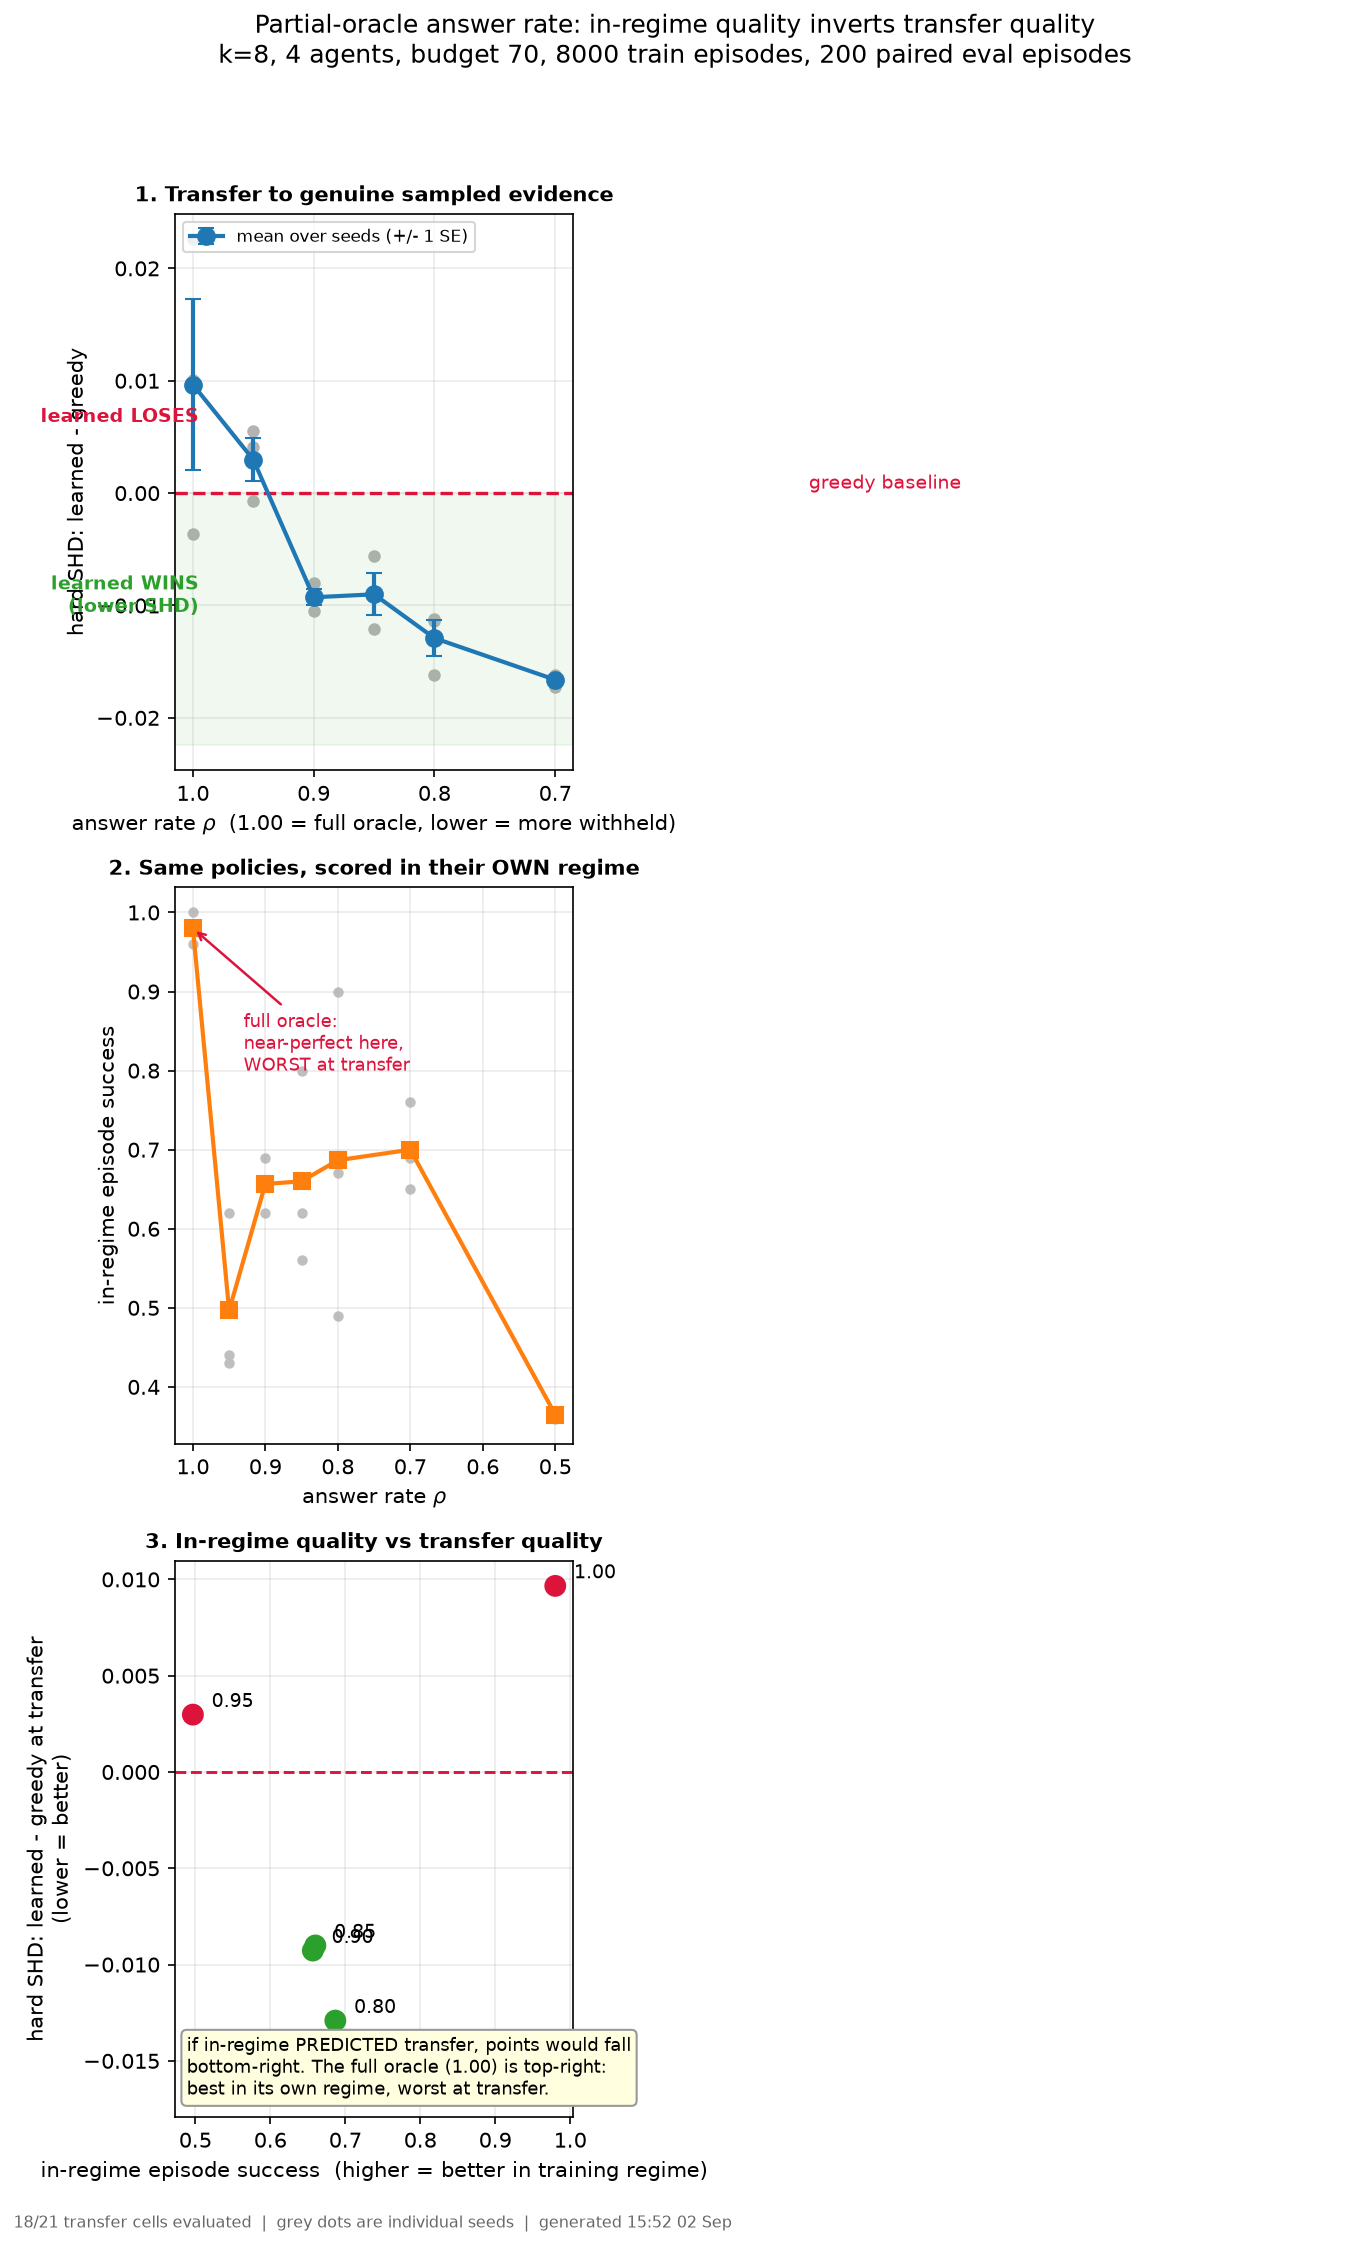
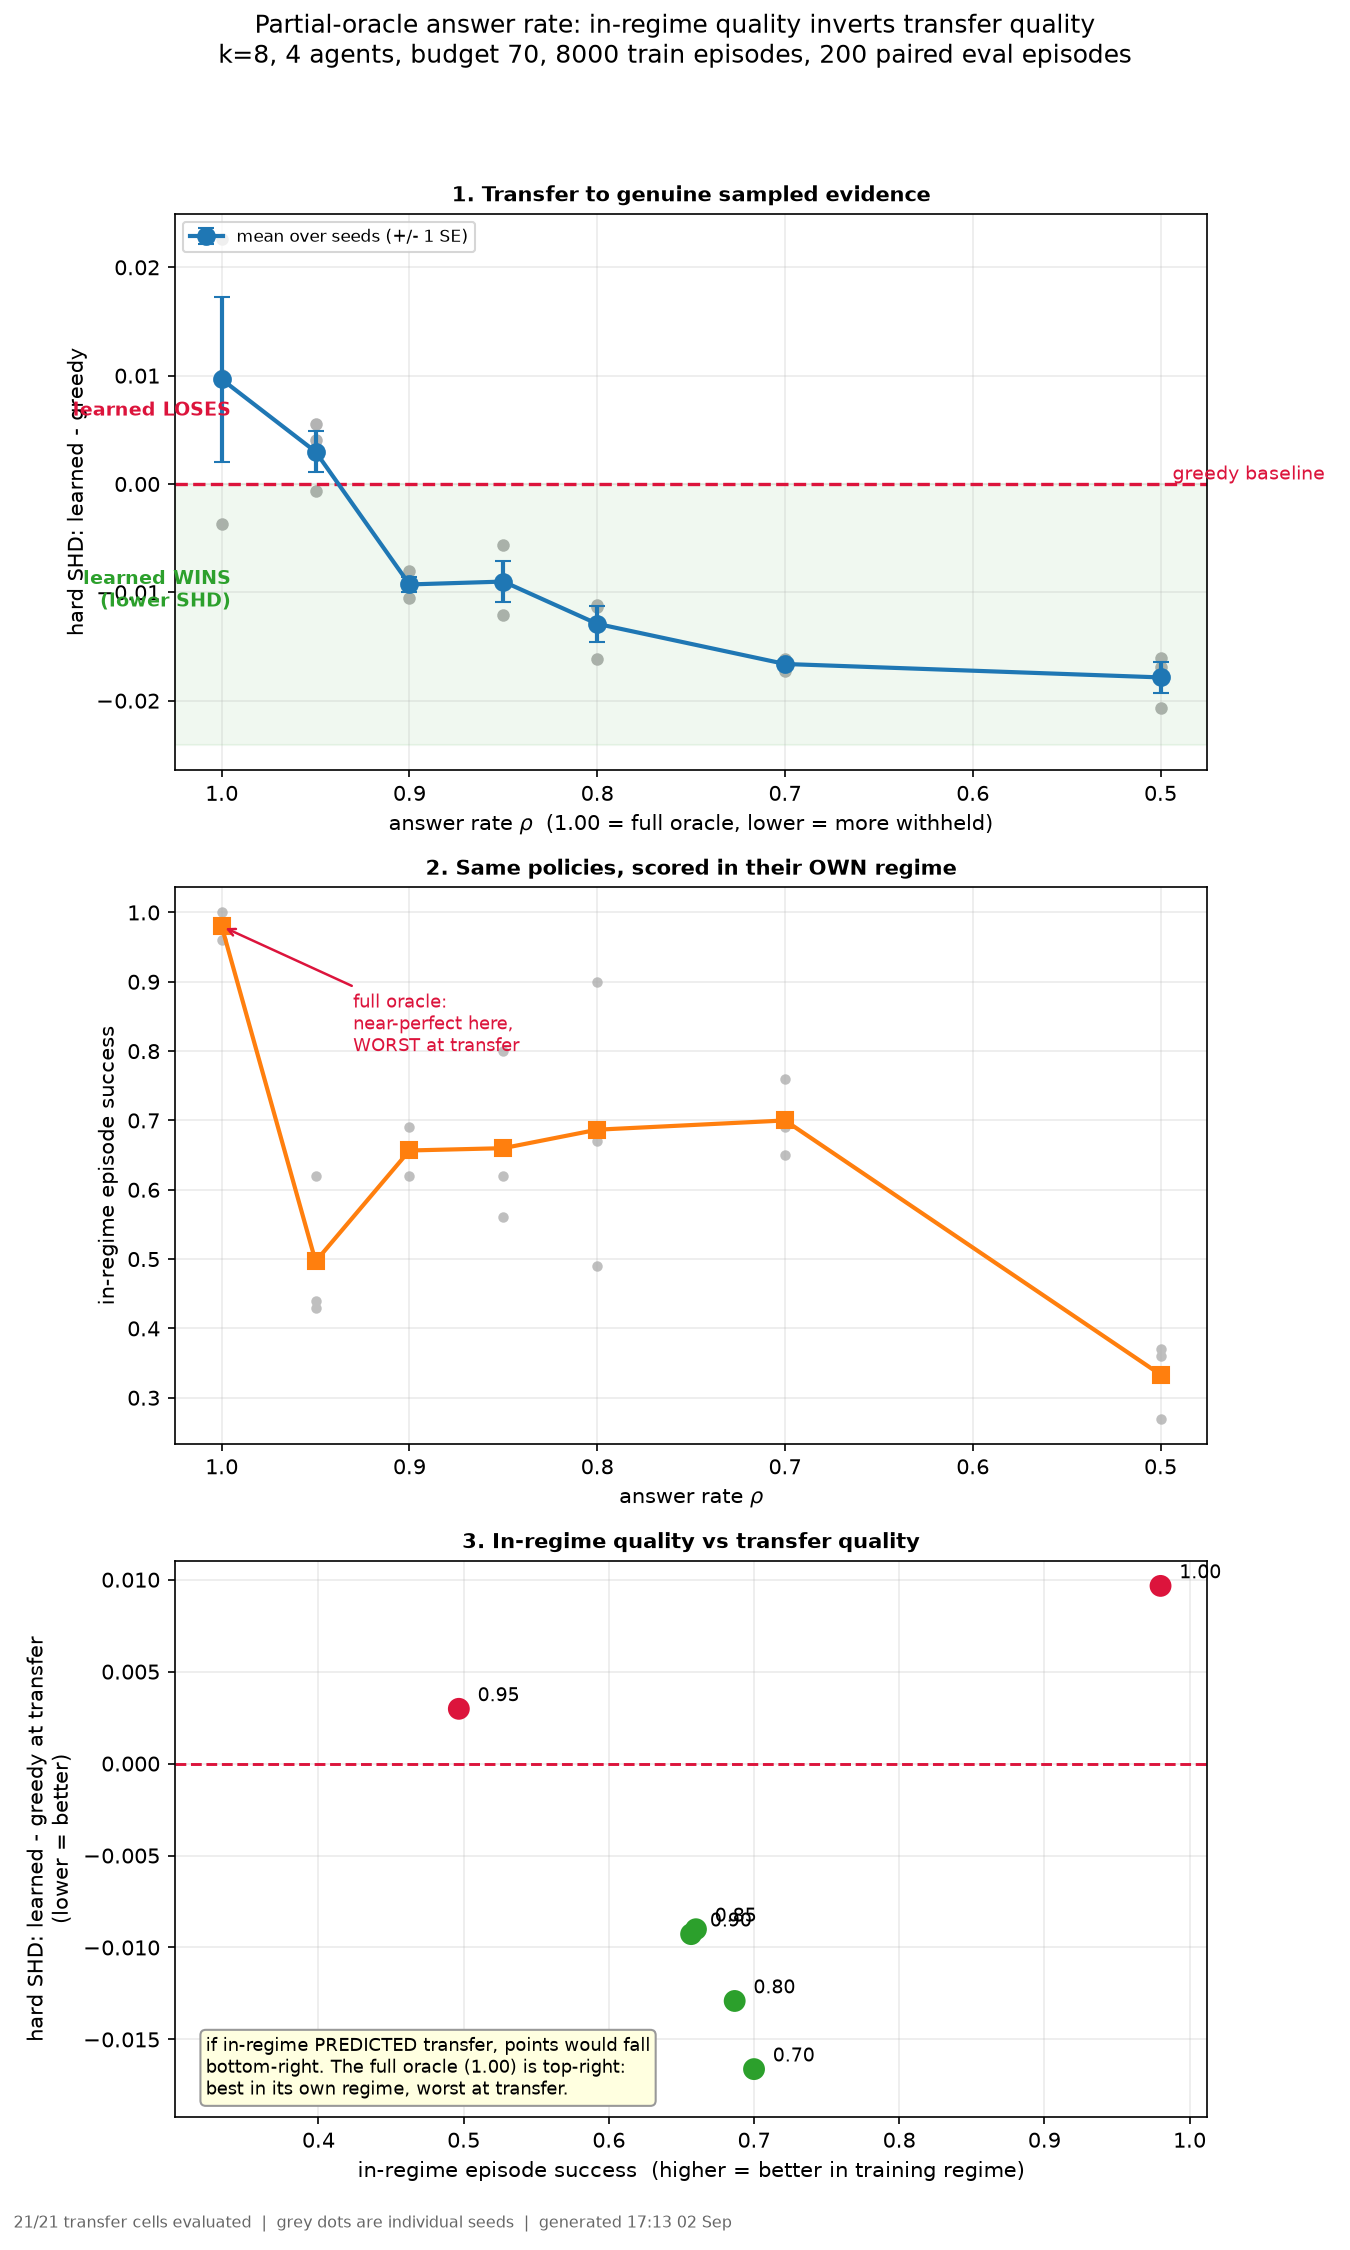
GRID COMPLETE 21/21: monotone saturating transfer curve, 15/15 seeds win below rho=0.90, spread 12.5x noise; rho=0.50 worst in-regime AND best at transfer

diff --git a/docs/AGENT_B_INBOX.md b/docs/AGENT_B_INBOX.md
@@ -5083,3 +5083,55 @@ cries wolf three times is one nobody reads by the fourth.
 
 Status: **trained 21/21**, transfer 20/21 (rho=0.50_s2 in flight), argmax diagnostic on
 rho=0.95 at ~60%.
+
+## 2 Sep, 17:15 — THE GRID IS COMPLETE. 21/21 cells, 7 rates x 3 seeds.
+
+    rho    n   learned   greedy      delta   seedSE   verdict        per-seed
+    1.00   3   0.05812   0.04846   +0.00966  0.00759  tied           +0.0101 -0.0037 +0.0226
+    0.95   3   0.05144   0.04846   +0.00298  0.00188  tied           +0.0055 +0.0041 -0.0007
+    0.90   3   0.03918   0.04846   -0.00927  0.00071  beats greedy   -0.0105 -0.0093 -0.0080
+    0.85   3   0.03945   0.04846   -0.00901  0.00188  beats greedy   -0.0056 -0.0121 -0.0093
+    0.80   3   0.03555   0.04846   -0.01291  0.00163  beats greedy   -0.0112 -0.0162 -0.0114
+    0.70   3   0.03184   0.04846   -0.01661  0.00032  beats greedy   -0.0164 -0.0172 -0.0162
+    0.50   3   0.03060   0.04846   -0.01785  0.00141  beats greedy   -0.0161 -0.0206 -0.0169
+
+    spread 0.02752, typical seed SE 0.00220 -> 12.5x noise
+    VERDICT: DOSE-RESPONSE SUPPORTED
+
+**15/15 seeds at rho <= 0.90 beat greedy. 0/6 at rho >= 0.95 do.** Perfect separation across
+the entire sweep.
+
+### What the last two rates settle
+
+**The transfer curve is monotone and SATURATING, not peaked.** -0.0166 at 0.70 and -0.0179 at
+0.50: still improving, but the step has shrunk to a fifth of the earlier ones. So there is no
+interior optimum anywhere in the swept range, and the curve is flattening rather than turning.
+**I am not claiming a floor** -- we have not measured below 0.50 and the flattening is
+suggestive, not conclusive.
+
+This retires the "interior optimum" reading I floated at 14:33 and retracted at 15:52. Final
+answer: monotone, saturating, no optimum in range.
+
+**The in-regime curve is U-shaped and rho=0.50 is its worst point** -- 0.333 success, 0.00780
+SHD, worse than the 0.95 cliff. Which means the same rate is simultaneously **the worst arm
+in-regime and the best arm at transfer.** Panel 3 of the figure shows both extremes doing this
+at once: 1.00 top-right, 0.50 bottom-left. The two measures are not merely uncorrelated, they
+are opposed at both ends.
+
+### Figure
+
+`results/power/rho/rho_curve.png` regenerated at 21/21. Three panels: transfer against rho
+with per-seed points, in-regime on the same axis, and the two against each other.
+
+### Caveats unchanged
+
+k=8 only. No matched sampled-trained arm (the 40-60 core-hour experiment we agreed not to
+run). The observation flags are on for every arm including the control, so the curve isolates
+rho cleanly but says nothing about what those flags contribute.
+
+### Outstanding
+
+The argmax diagnostic on rho=0.95 is at ~45% (3 arms rather than learned-only -- I should have
+reused the sampled baselines, since `--sample` does not affect the deterministic arms; noted,
+not worth restarting at this point). It will say whether rho=0.95's failure to win is weak
+policies or something structural about a 5% withhold rate.
